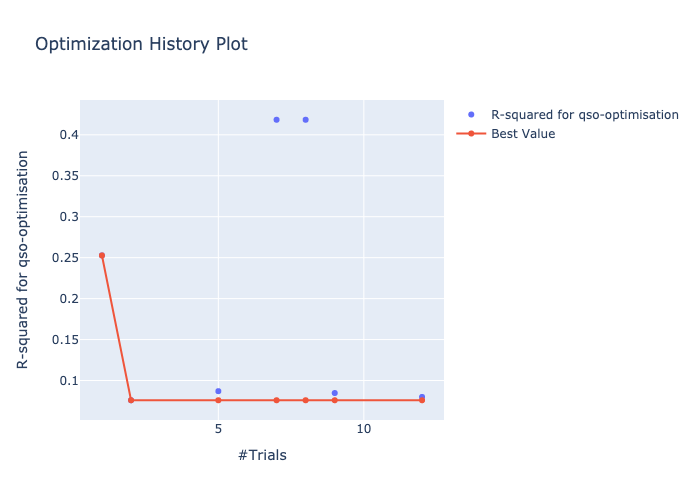
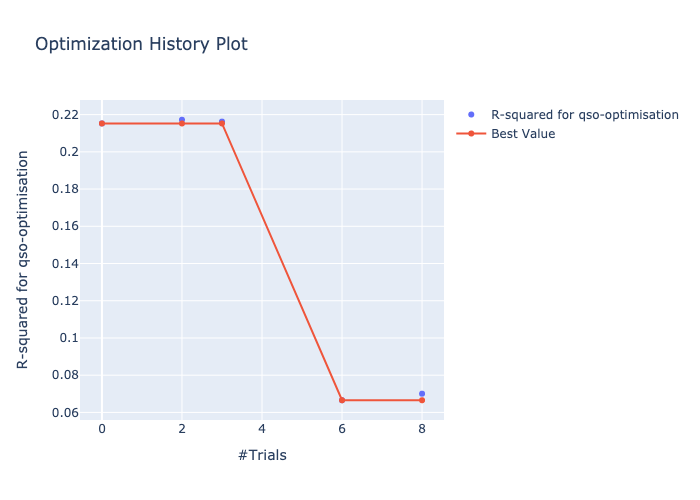
Experimental Feature to save best models --> will need to be refactored into main_loop

diff --git a/models/deep_set/hp_lightning.py b/models/deep_set/hp_lightning.py
@@ -8,7 +8,7 @@ import pytorch_lightning as pl
 import torch
 from optuna.integration import PyTorchLightningPruningCallback
 from optuna.trial import TrialState
-from pytorch_lightning.callbacks import EarlyStopping
+from pytorch_lightning.callbacks import EarlyStopping, ModelCheckpoint
 from sklearn import metrics
 from torch import nn, optim
 from torch.utils.data import DataLoader
@@ -150,17 +150,26 @@ def objective(trial):
     print()
 
 
-    batch_size = trial.suggest_categorical("batch_size", [16,32,128])
+    batch_size = 4#trial.suggest_categorical("batch_size", [16,32,128])
 
-    no_epochs = 300 # --> Get rid of it , Early stopping ToDo
+    no_epochs = 10 # --> Get rid of it , Early stopping ToDo
 
     datamodule.batch_size = batch_size
 
+    checkpoint_callback = ModelCheckpoint(monitor='Val_loss',
+                                          dirpath=f'trained_models/{gal}/',
+                                          filename='{Val_loss:.4f}',
+                                          save_top_k=1,
+                                          mode='min',
+                                          every_n_epochs=1)
+
+
+    # Have left pretty high patience since all the best models are stored
     trainer = pl.Trainer(logger=False,
-        checkpoint_callback=False,
+        checkpoint_callback=True,
         max_epochs=no_epochs,
         gpus=1 if torch.cuda.is_available() else None,
-        callbacks=[PyTorchLightningPruningCallback(trial, monitor="Val_loss"), EarlyStopping(monitor='Val_loss', patience=10)])
+        callbacks=[checkpoint_callback, PyTorchLightningPruningCallback(trial, monitor="Val_loss"), EarlyStopping(monitor='Val_loss', patience=15)])
 
     trainer.fit(model, datamodule=datamodule)
 

diff --git a/models/deep_set/lightning.py b/models/deep_set/lightning.py
@@ -19,6 +19,7 @@ class LitVarDeepSet(pl.LightningModule):
         # Output of Feature Layer: Tensor with Max.CCDs elements, which can now be passed to Set Layer
 
         self.model = model
+        self.save_hyperparameters()
 
     def forward(self, X1, X2, mask=None):
         return self.model(X1, X2, mask)
@@ -79,12 +80,12 @@ class DeepDataModule(pl.LightningDataModule):
 
     def train_dataloader(self) -> DataLoader:
         return DataLoader(
-            self.traindata, batch_size=self.batch_size, shuffle=True, drop_last=True, num_workers=8
+            self.traindata, batch_size=self.batch_size, shuffle=True, drop_last=True, num_workers=0
         )
 
     def val_dataloader(self) -> DataLoader:
         return DataLoader(
-            self.valdata, batch_size=self.batch_size, shuffle=False, drop_last=True, num_workers=8
+            self.valdata, batch_size=self.batch_size, shuffle=False, drop_last=True, num_workers=0
         )
 
 
